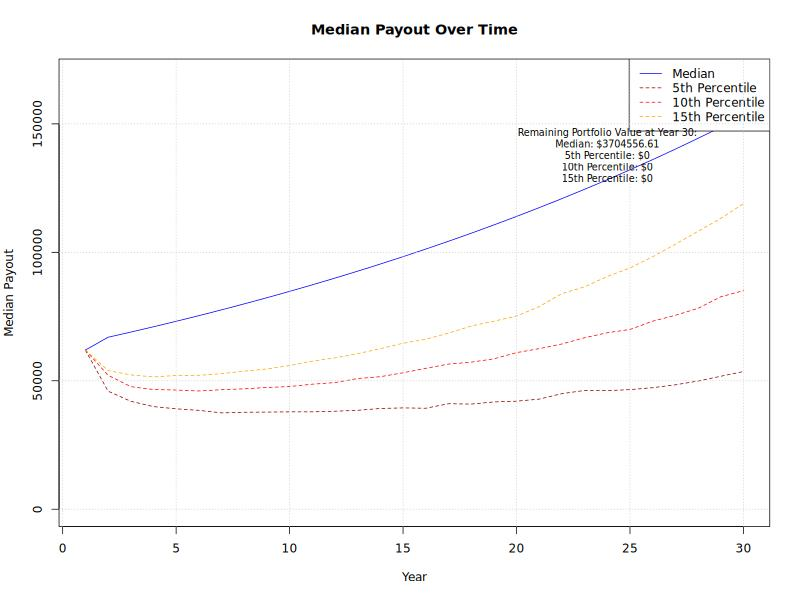
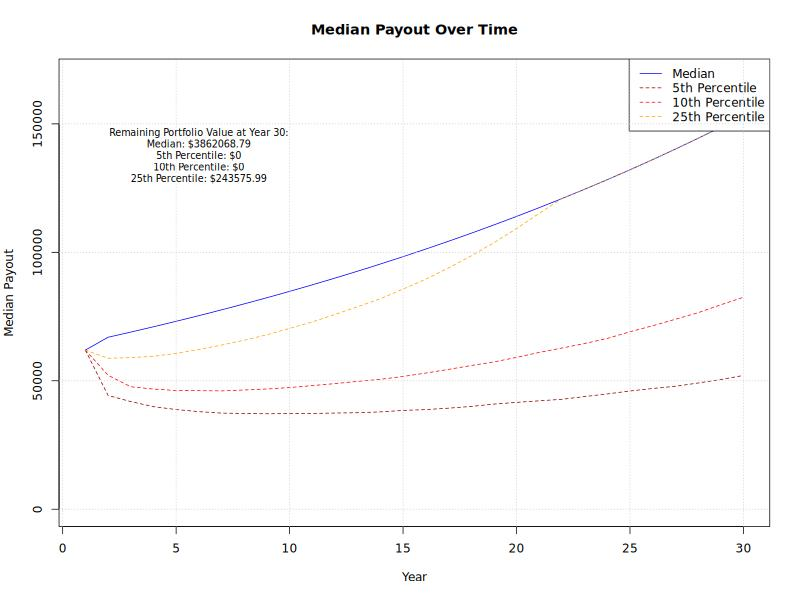
Fix typos

diff --git a/README.md b/README.md
@@ -41,13 +41,19 @@ the portfolio too quickly, resulting in low payouts in later years. For example,
 $50,000 per year increasing with inflation, you can define the `max_payout` function as follows:
 
 ```R
-max_payout = function(year) {
+default_payout <- function(year) {
   return(50000 * (1.03)^(year - 1))  # Assuming 3% inflation per year
 }
 ```
 
-By default, the `max_payout` function returns -1, which means there is no limit on the payout. You can customize this
-function to implement any payout strategy you prefer.
+If you do not want to limit the payout, you can simply set `max_payout` to a function that returns a negative value,
+ such as:
+
+```R
+no_limit_payout <- function(year) {
+  return(-1)
+}
+```
 
 ## Historical Data
 
